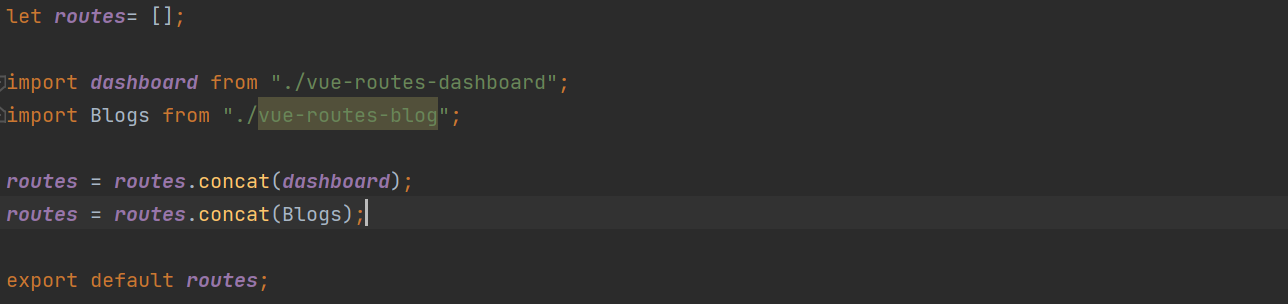
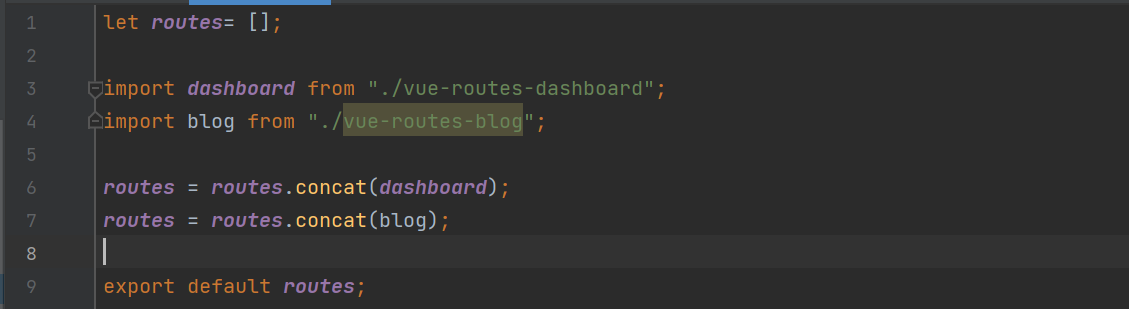
Update: From guide to VaahCMS 2.x
According to themodernpk sir i moved docs from guide to vaahcms-2 and some other changes like highlighted and explanations.

diff --git a/docs/.vuepress/vaahcms-2.js b/docs/.vuepress/vaahcms-2.js
@@ -16,6 +16,7 @@ sidebar = [
             {text: 'Overview', link: '/vaahcms-2/backend/index.md'},
             {text: 'Dashboard', link: '/vaahcms-2/backend/dashboard.md'},
             {text: 'Sample', link: '/vaahcms-2/backend/sample.md'},
+            {text: 'Generate CRUD', link: '/vaahcms-2/backend/generate-crud.md'},
         ]
     },
 

diff --git a/docs/.vuepress/guide.js b/docs/.vuepress/guide.js
@@ -19,10 +19,6 @@ sidebar = [
         text: 'Laravel',
         link: '/guide/laravel.md',
     },
-    {
-        text: 'Generate CRUD',
-        link: '/guide/generate-crud.md',
-    },
 
 ];
 

diff --git a/docs/vaahcms-2/backend/generate-crud.md b/docs/vaahcms-2/backend/generate-crud.md
@@ -25,26 +25,25 @@ npx vaah cms:crud
 <img :src="$withBase('/images/step-2.png')">
 
 ## Step-3
-Use following procedures to set up CRUD
+Use following procedures to set up CRUD.
 
-- For which you want to create CRUD: vue3 & PrimeVue
+- For which you want to create CRUD: vue3 & PrimeVue ```This option is to build template```
 
-- Enter the Module/Theme/Entity name: Blog
+- Enter the Module/Theme/Entity name: Blog ```Name of the module, so that it will create crud inside it```
 
-- Enter the section name (Backend | Frontend or Folder name): (For module choose backend, for theme choose frontend)
+- Enter the section name (Backend | Frontend or Folder name): Backend ```For module choose backend, for theme choose frontend```
 
-- Vue folder name/path:(vue)
+- Vue folder name/path:(vue) ```The directory name where vue files and component stored```
 
-- Enter your database table name:(Enter the table name for which you are genrating crud)
+- Enter your database table name: blog ```Enter the table name for which you are generating crud```
 
-- Do you want to generate migration file (true/false):  (true) (We have to write true so that migration file will be genrated)
+- Do you want to generate migration file (true/false):  (true) ```We have to write true so that migration file will be generated```
 
-- Enter your model name (singular): (use table name as singular for better understanding)
+- Enter your model name (singular): Blog ```It is asking name of the model. Use table name as singular for better understanding```
 
-- Enter your controller name (plural): (use table name as plular for better understanding)
+- Enter your controller name (plural): Blogs ```It is asking name of the controller. Use table name as plural for better understanding```
 
-<img :src="$withBase('/images/step-3.png')">
-
+```This video will help you to understand the generation of CRUD.```
 <figure>
   <iframe src="https://img-v4.getdemo.dev/screenshot/cmd_T6jUDyV82j.mp4" frameborder="0" allowfullscreen="true" style="width: 100%; aspect-ratio: 16/9;"> </iframe>
 </figure>
@@ -55,6 +54,7 @@ Below link you can use to go module in your browser
 ```
 http://127.0.0.1:8000/backend#/vaah/modules/
 ```
+```This video will help you to understand how to re-activate module.```
 
 <figure>
   <iframe src="https://img-v4.getdemo.dev/screenshot/chrome_j3WEb0p0h0.mp4" frameborder="0" allowfullscreen="true" style="width: 100%; aspect-ratio: 16/9;"> </iframe>
@@ -68,7 +68,7 @@ Include the laravel router file in the module's route file
 Add this code in above path
 
 ```
-require_once('backend/routes-blog.php');
+include('backend/routes-blog.php');
 ```
 <img :src="$withBase('/images/step-5.png')">
 
@@ -92,9 +92,9 @@ Include the vue router file
 
 Add this code in above path
 ```
-import Blogs from "./vue-routes-blog";
+import blog from "./vue-routes-blogs";
    
-routes = routes.concat(Blogs);
+routes = routes.concat(blog);
 ```
 <img :src="$withBase('/images/step-7.png')">
 
@@ -112,7 +112,7 @@ let ajax_url = base_url + "/backend/blog/blogs";
 <img :src="$withBase('/images/step-8.png')">
 
 ## Step-9
-Open ```.env & custom.env``` and paster below code
+Open ```.env & .env.custom``` and paster below code
 ```
 MODULE_BLOG_ENV=develop
 ```
